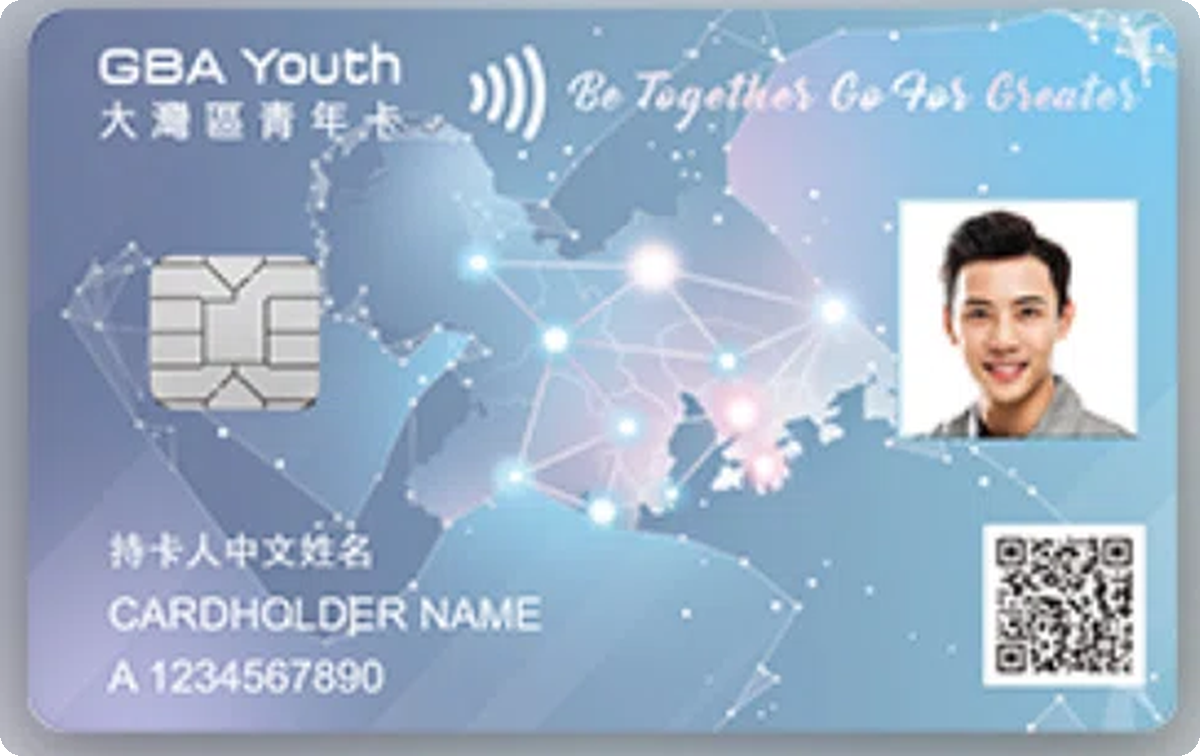
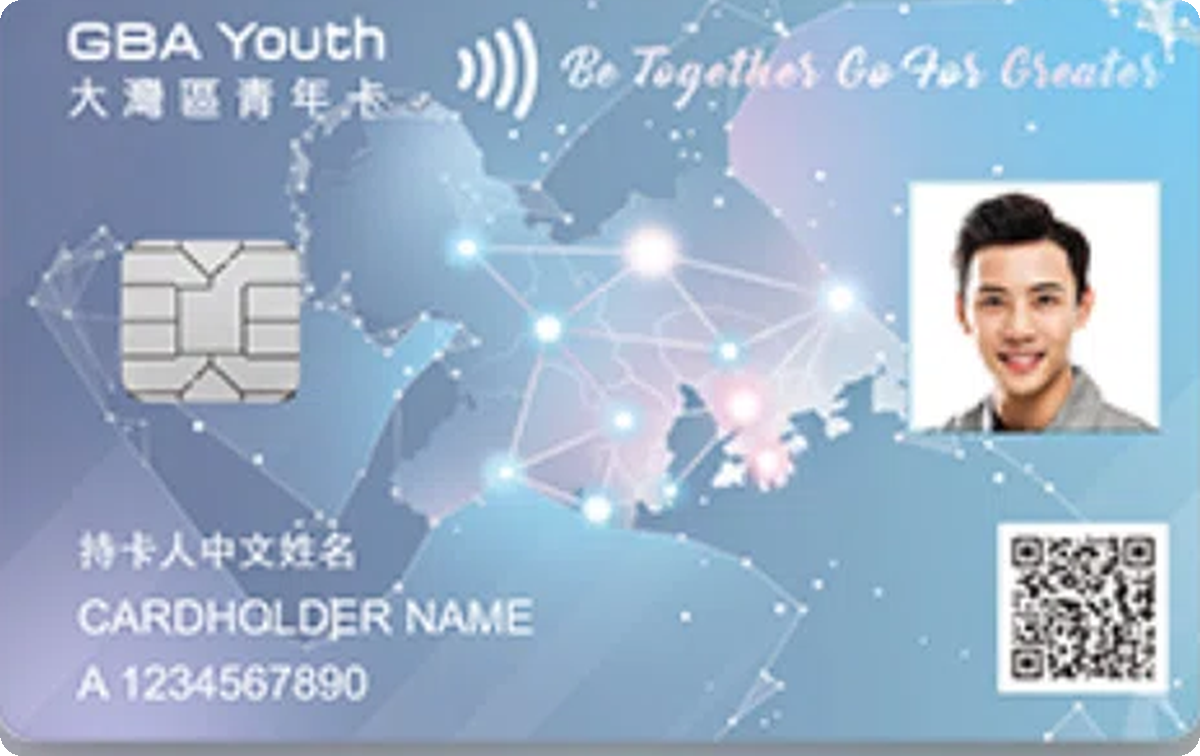
Crop the GBA youth card to its edge
Remove the remaining mock-up margin around the GBA youth card and bump the catalog version.

diff --git a/README.md b/README.md
@@ -18,7 +18,7 @@
 
 ## 当前覆盖
 
-2026-10-25 发布的 `contentVersion: 2026102310` 包含 **5 家银行、15 款产品**：HSBC、BOCHK、BEA、CNCBI，以及交通银行（香港）。
+2026-10-25 发布的 `contentVersion: 2026102311` 包含 **5 家银行、15 款产品**：HSBC、BOCHK、BEA、CNCBI，以及交通银行（香港）。
 
 交通银行新增 Go-Goal Visa 白金信用卡与大湾区银联双币钻石信用卡，含卡面、日常权益与 2026 年迎新。本轮同时把汇丰、中银、东亚和交银的卡面统一为横版资源；本轮替换的公开卡面不包含任何卡号尾号。
 
